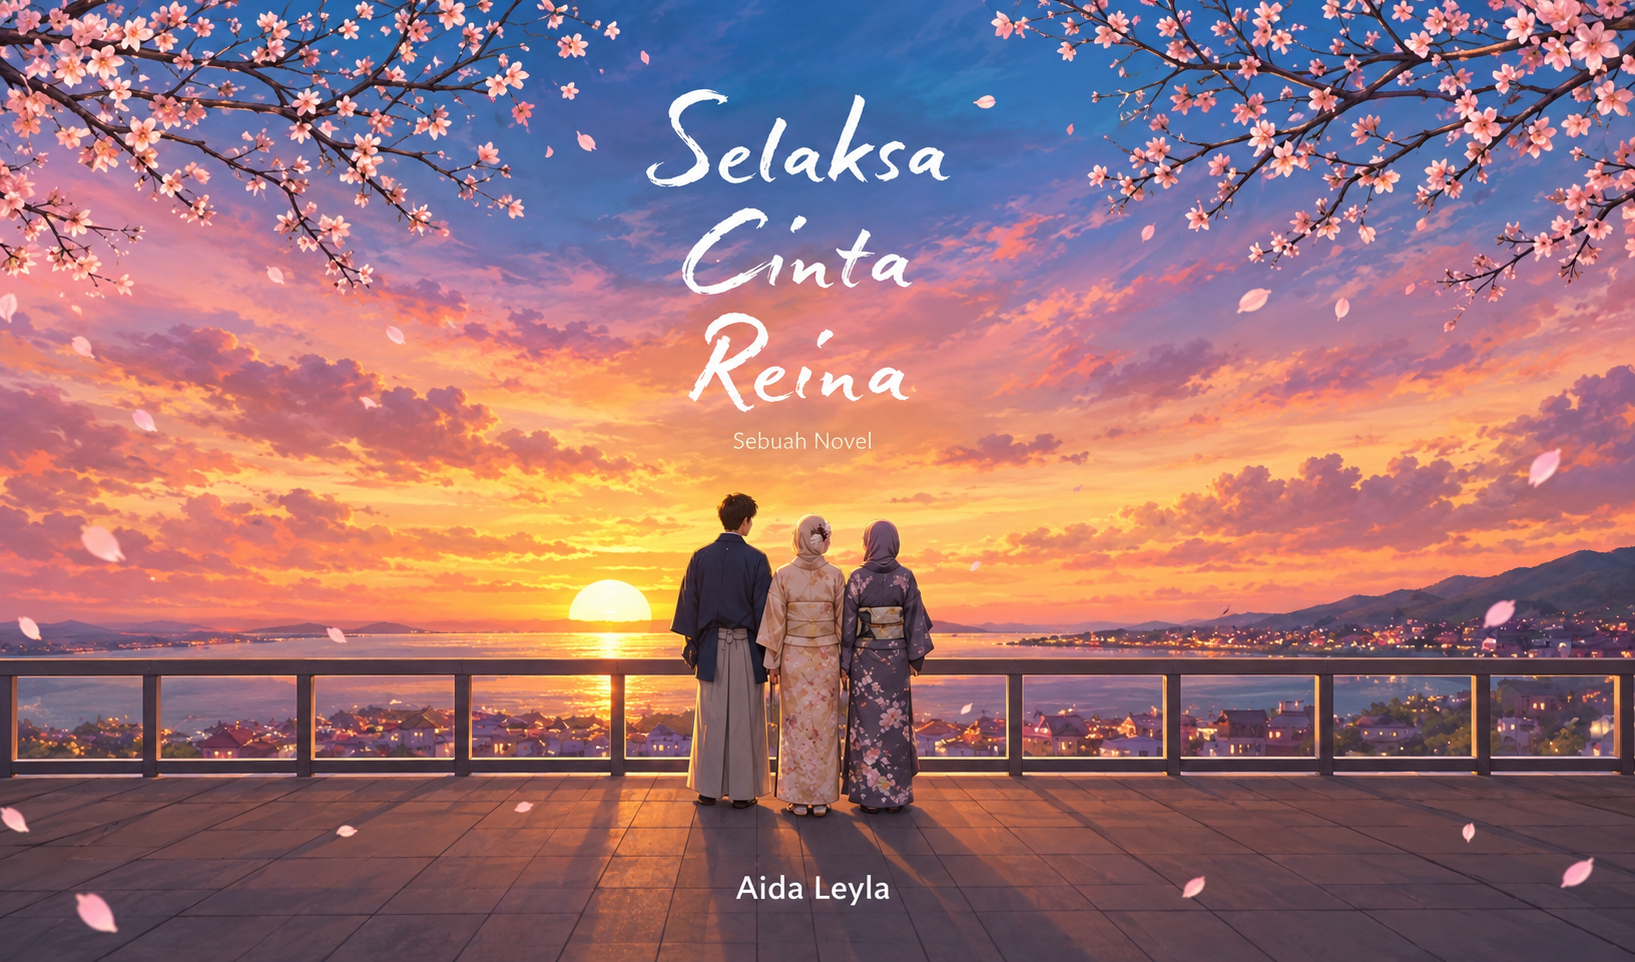
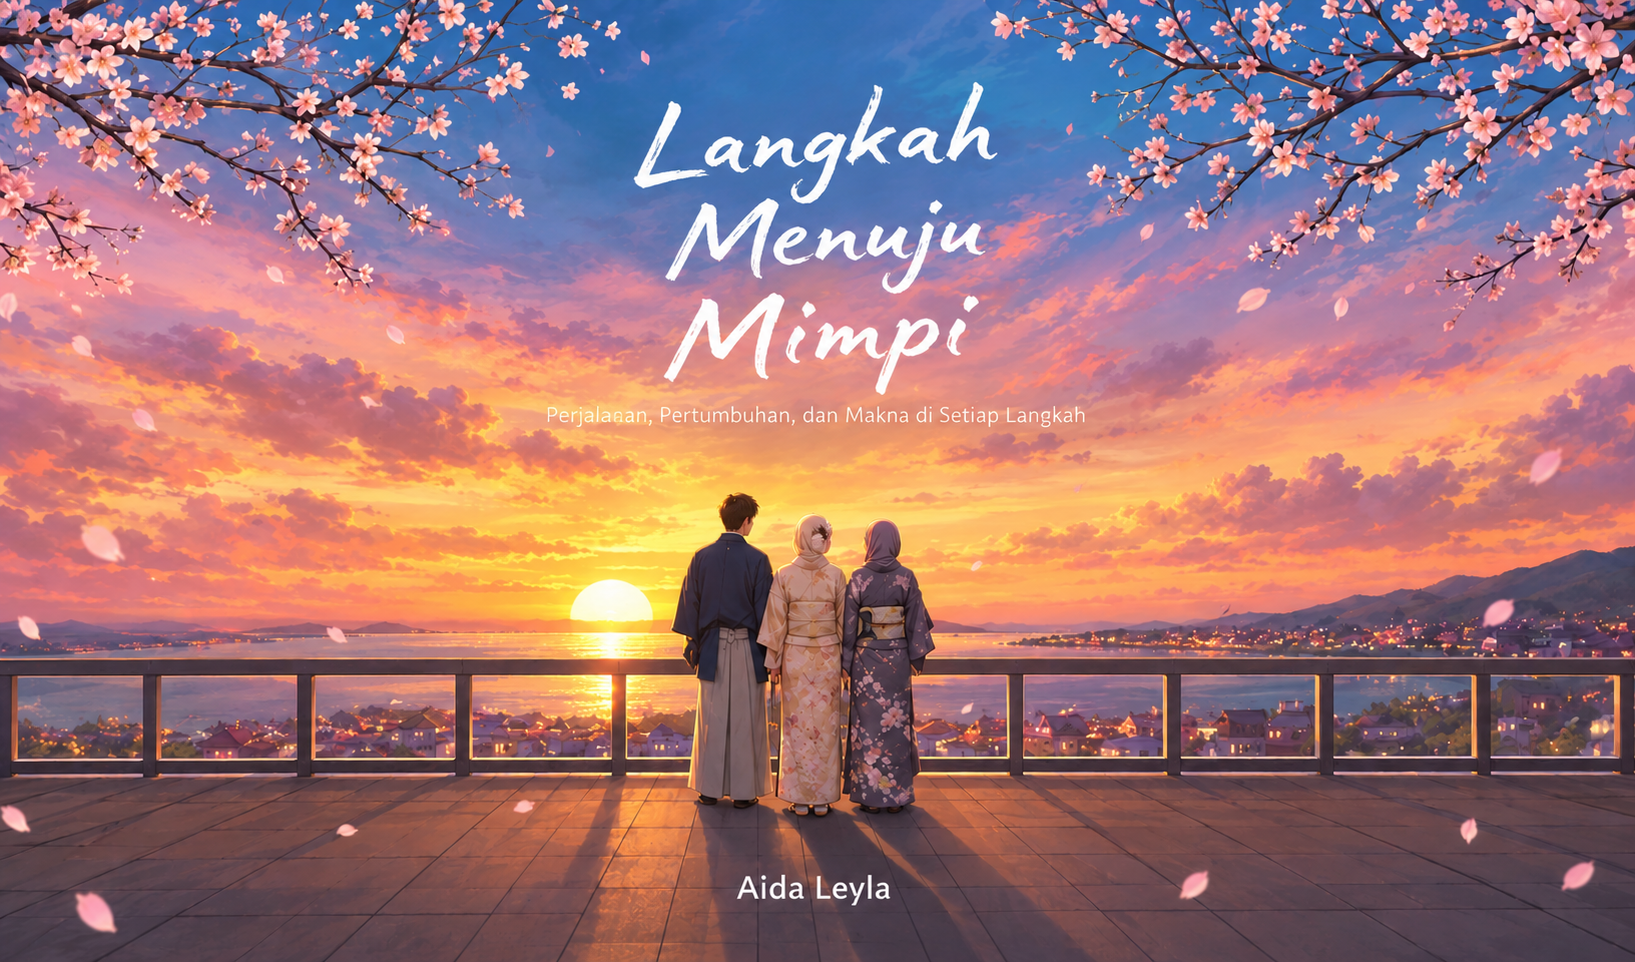
reupdate

diff --git a/README.md b/README.md
@@ -1,5 +1,8 @@
 # 🚀 AstroWind
+# Ida Rosnida Laila, S.H., M.E., M.Ids.
+# Analis Kebijakan Publik & Komunikator Sektor Publik
 
+  
 <picture>
   <source media="(prefers-color-scheme: dark)" srcset=".github/assets/lighthouse-dark.svg">
   <img src=".github/assets/lighthouse-light.svg" align="right" alt="Lighthouse scores: Performance 100, Accessibility 100, Best Practices 100, SEO 100" width="100" height="358">
